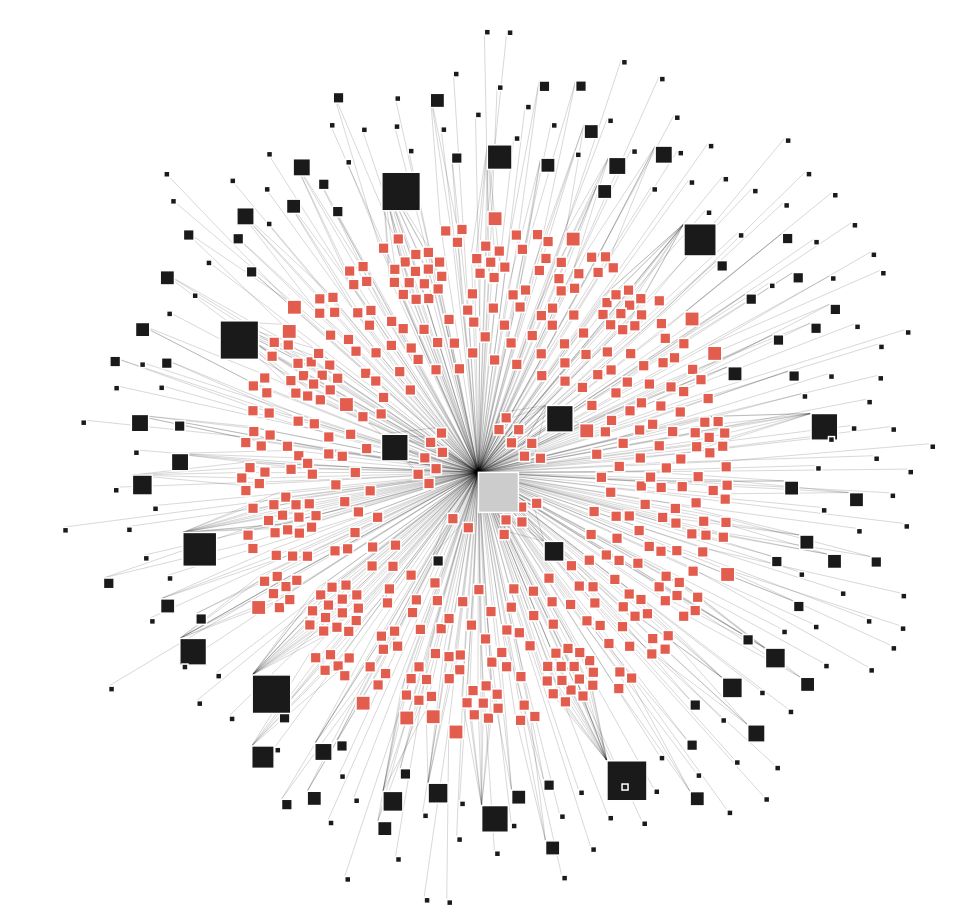
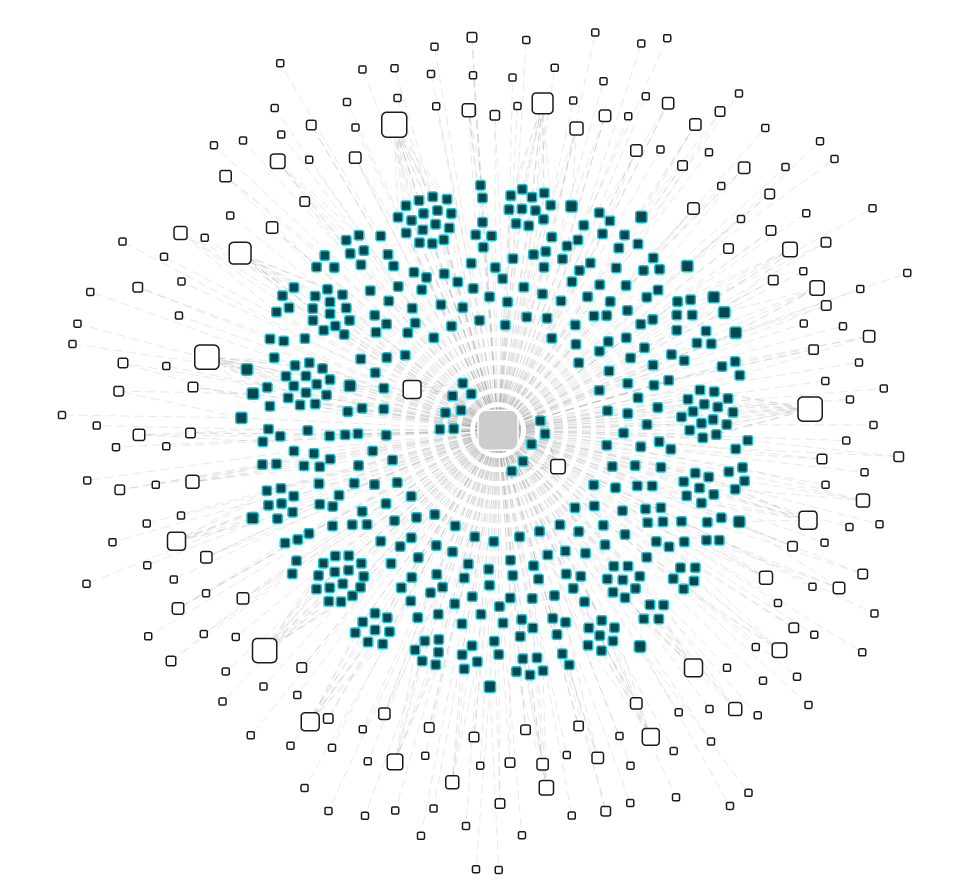
styling

diff --git a/www/graph.html b/www/graph.html
@@ -5,17 +5,23 @@
     <title>SEC Revolving Door Network Graph</title>
     <style>
 
+    body {
+      background: #fff;
+    }
+
     .node {
       stroke: #fff;
       stroke-width: 1.5px;
     }
 
     .node.employee {
-      fill: #e25d4e;
+      stroke: #12c4d4;
+      fill: #07464c;
     }
 
     .node.employer {
-      fill: #1a1a1a;
+      stroke: #1a1a1a;
+      fill: #fff;
     }
 
     .node.SEC {
@@ -25,7 +31,8 @@
     .link {
       stroke: #000;
       stroke-opacity: .3;
-      stroke-width: .5;
+      stroke-width: .3;
+      stroke-dasharray: 9, 5;
     }
 
     </style>
@@ -36,8 +43,6 @@
 
     var width = window.innerWidth,
         height = window.innerHeight;
-
-    // var color = d3.scale.category20();
 
     var force = d3.layout.force()
         .charge(-120)
@@ -77,15 +82,14 @@
           return link.source.name == node.name || link.target.name == node.name;
         }).length;
         maxConn = d3.max([maxConn, numLinks]);
-        minConn = d3.min([minConn, numLinks]);
+        // minConn = d3.min([minConn, numLinks]);
       });
-      var size = d3.scale.sqrt().domain([minConn, maxConn]).range([3, 20]);
+      var size = d3.scale.sqrt().domain([0, maxConn]).range([1, 25]);
 
       var link = svg.selectAll(".link")
           .data(graph.links)
         .enter().append("line")
           .attr("class", "link");
-          // .style("stroke-width", function(d) { return Math.sqrt(d.value); });
 
       var node = svg.selectAll(".node")
           .data(graph.nodes)
@@ -98,9 +102,11 @@
               return link.source.name == d.name || link.target.name == d.name; 
             }).length;
             if (d.name === "SEC") return d.size = 40;
-            return d.size = size(d.conn) * 2;
+            return d.size = size(d.conn);
           })
           .attr("height", function(d) { return d.size; })
+          .attr("rx", function(d) { return d.size/5; })
+          .attr("ry", function(d) { return d.size/5; })
           .call(force.drag);
 
       node.append("title")
@@ -114,8 +120,8 @@
 
         // node.attr("cx", function(d) { return d.x; })
         //     .attr("cy", function(d) { return d.y; });
-        node.attr("x", function(d) { return d.x; })
-            .attr("y", function(d) { return d.y; });
+        node.attr("x", function(d) { return d.x - d.size/2; })
+            .attr("y", function(d) { return d.y - d.size/2; });
       });
     });
 
